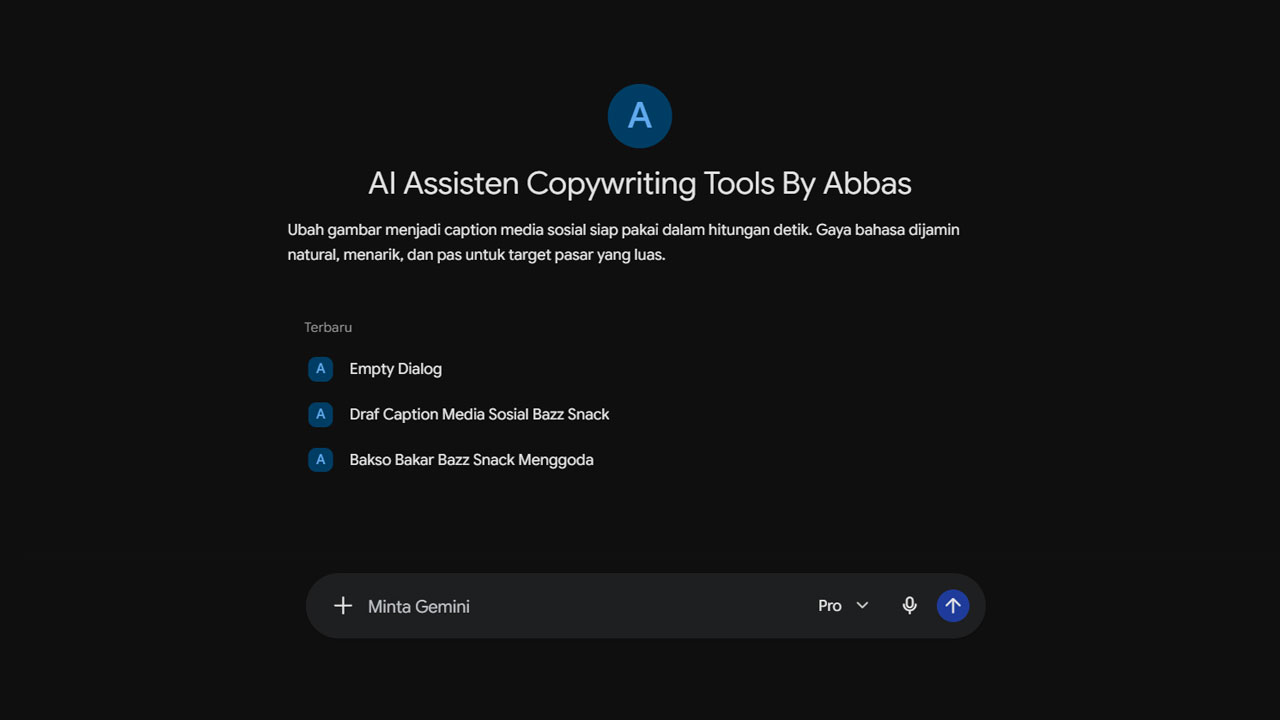
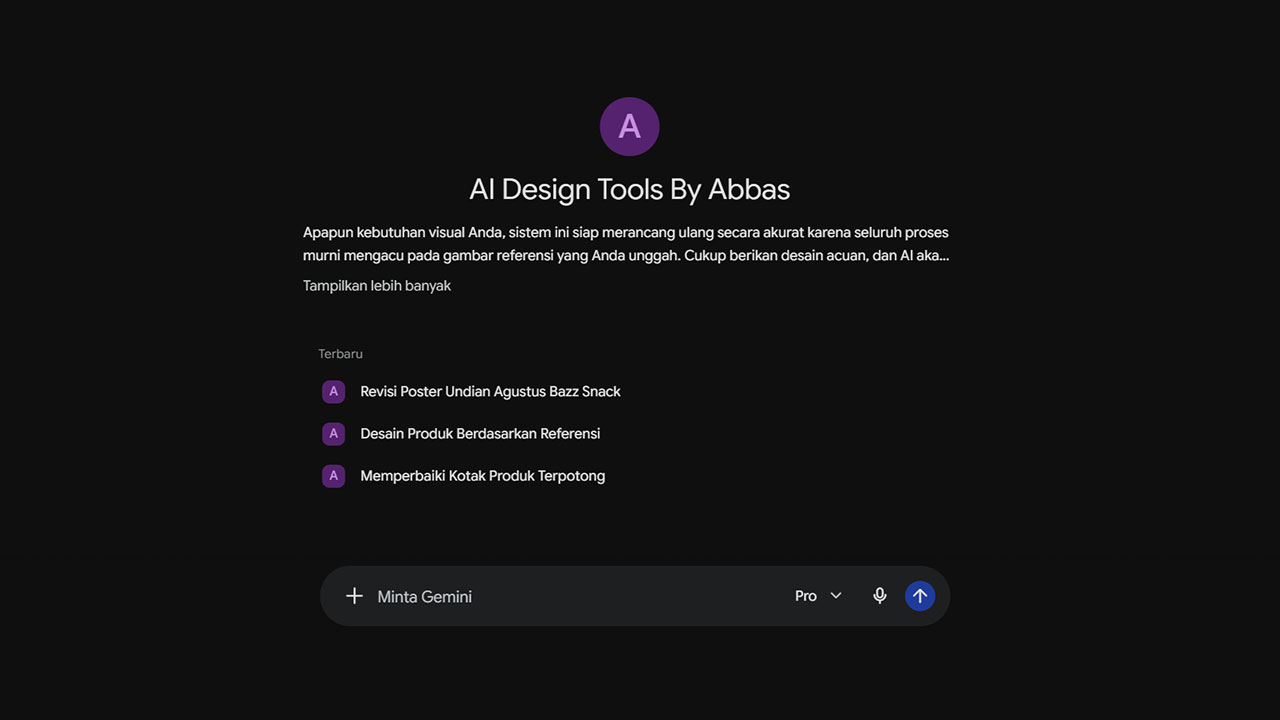
Update gallery assets for AI Assistant Design project

diff --git a/work.html b/work.html
@@ -348,7 +348,7 @@ toggleMobileMenu();
             </article>
 </article>
             <!-- AI Assistant Design & Copywriting -->
-            <article class="portfolio-item group bg-surface-container animate-pop border border-outline-variant/30 rounded flex flex-col hover:border-outline hover:shadow-[0_0_25px_rgba(255,255,255,0.1)] transition-all duration-300 cursor-pointer" data-category="tools" data-gallery="[&quot;gambar/portfolio/tools/ai-assisten-design-copywriting/design-tumbhnail.jpg&quot;, &quot;gambar/portfolio/tools/ai-assisten-design-copywriting/ac.jpg&quot;]">
+            <article class="portfolio-item group bg-surface-container animate-pop border border-outline-variant/30 rounded flex flex-col hover:border-outline hover:shadow-[0_0_25px_rgba(255,255,255,0.1)] transition-all duration-300 cursor-pointer" data-category="tools" data-gallery="[&quot;gambar/portfolio/tools/ai-assisten-design-copywriting/design-tumbhnail.jpg&quot;, &quot;gambar/portfolio/tools/ai-assisten-design-copywriting/pict 2.jpg&quot;, &quot;gambar/portfolio/tools/ai-assisten-design-copywriting/Cuplikan layar 2026-08-26 142256.png&quot;, &quot;gambar/portfolio/tools/ai-assisten-design-copywriting/Cuplikan layar 2026-08-26 142407.png&quot;]">
                 <div class="h-48 w-full bg-surface-variant rounded-t overflow-hidden relative">
                     <img class="w-full h-full object-cover object-top " loading="lazy" src="gambar/portfolio/tools/ai-assisten-design-copywriting/design-tumbhnail.jpg" alt="AI Assistant Design & Copywriting"/>
                 </div>
